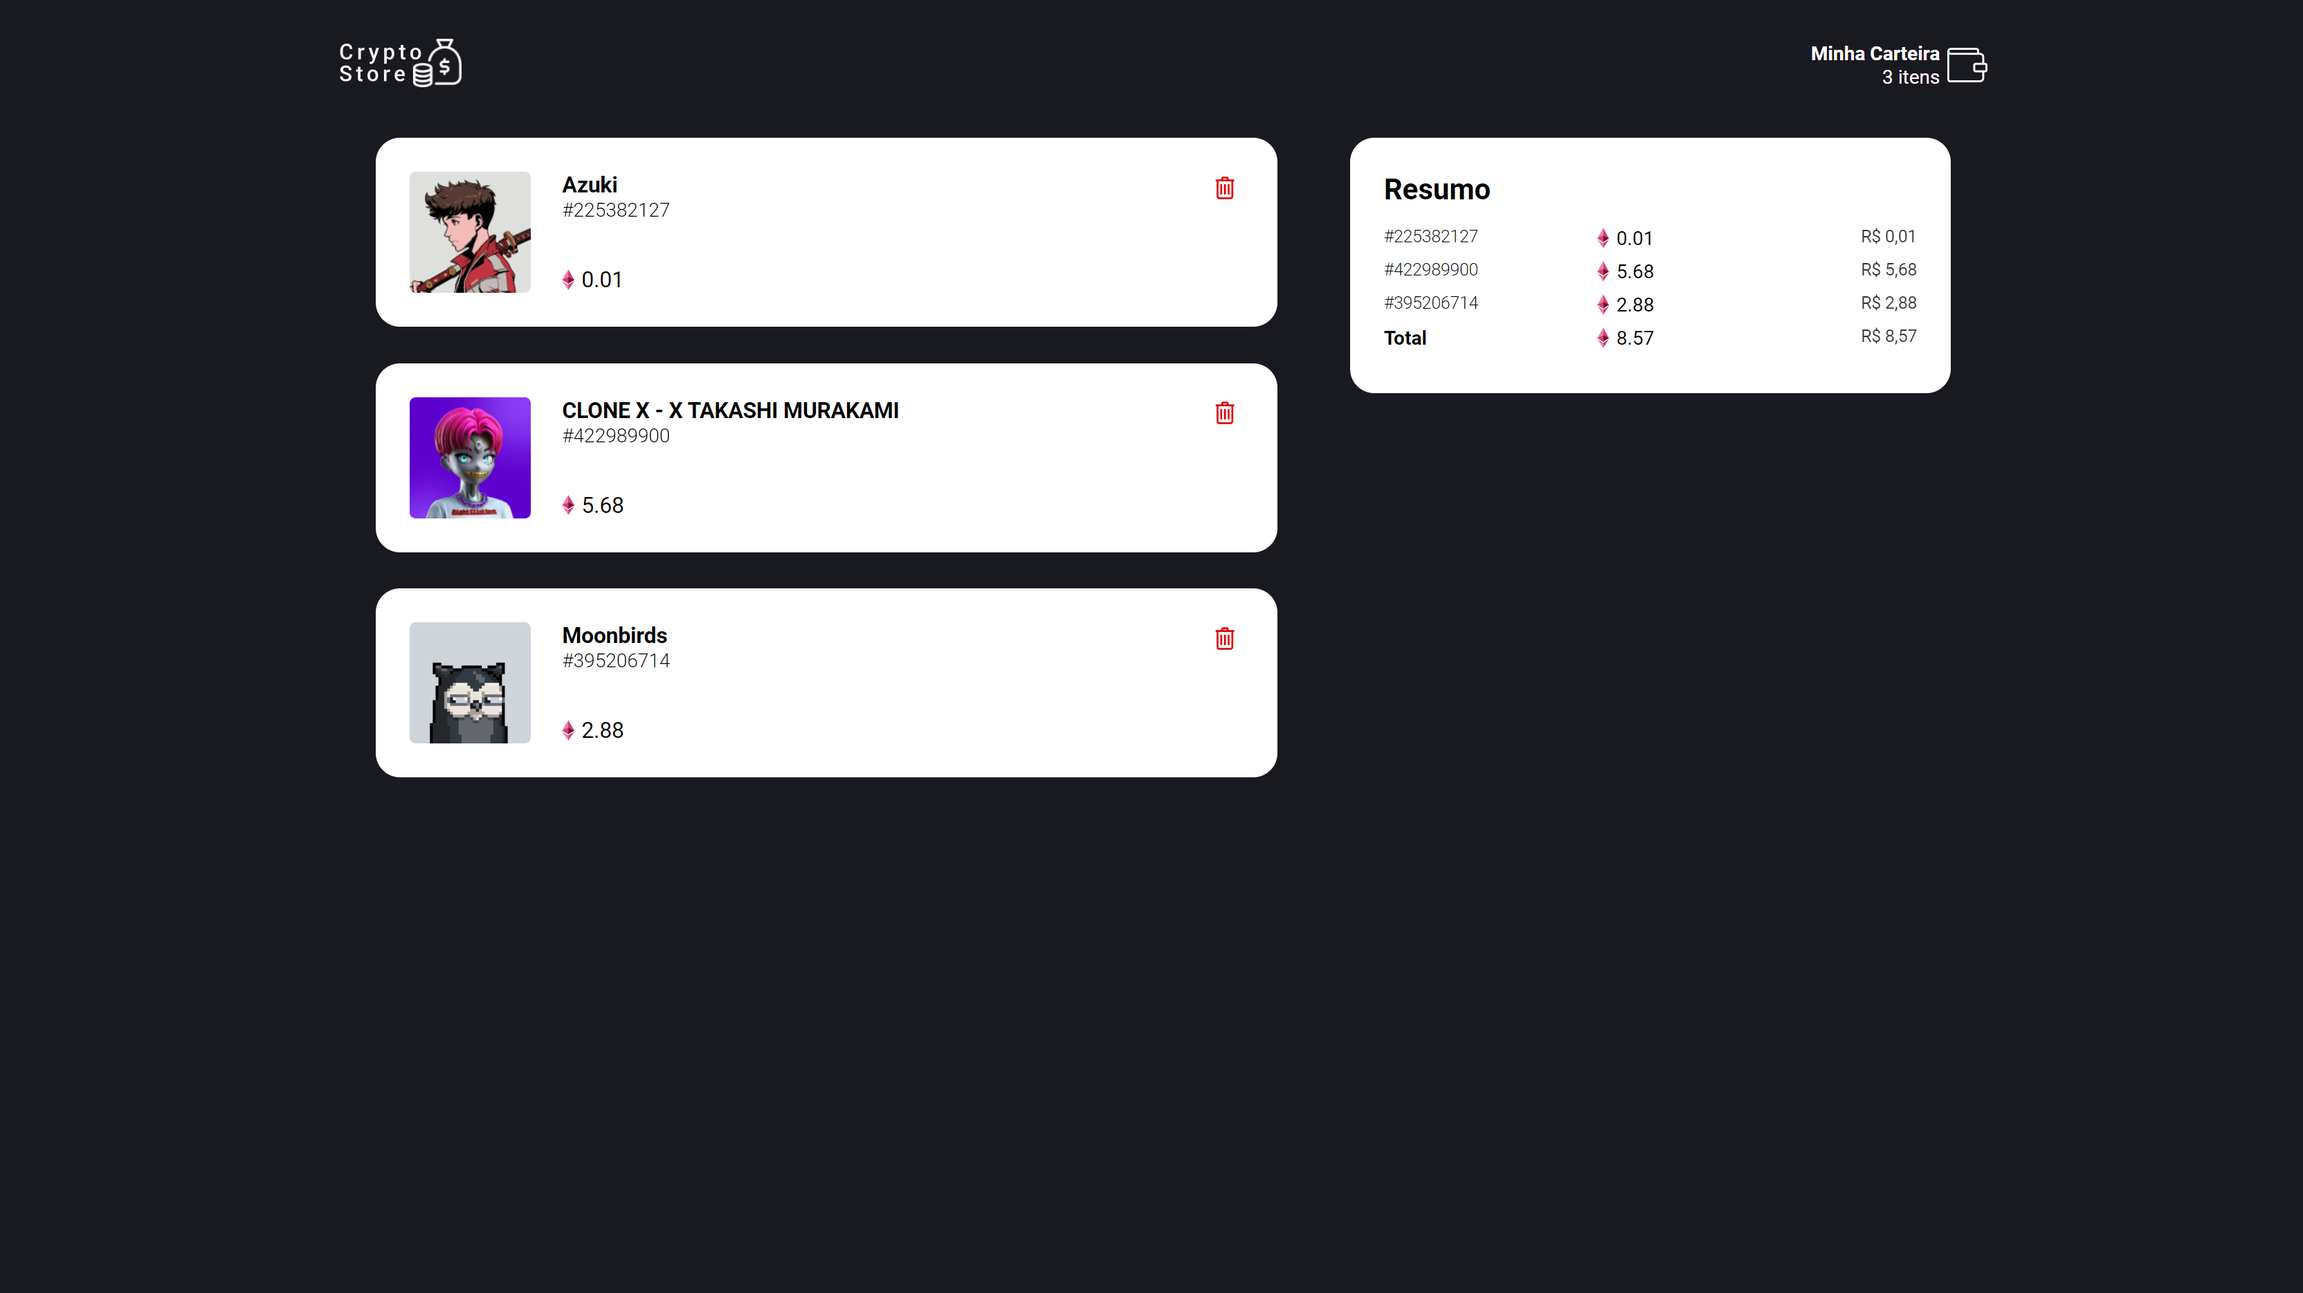
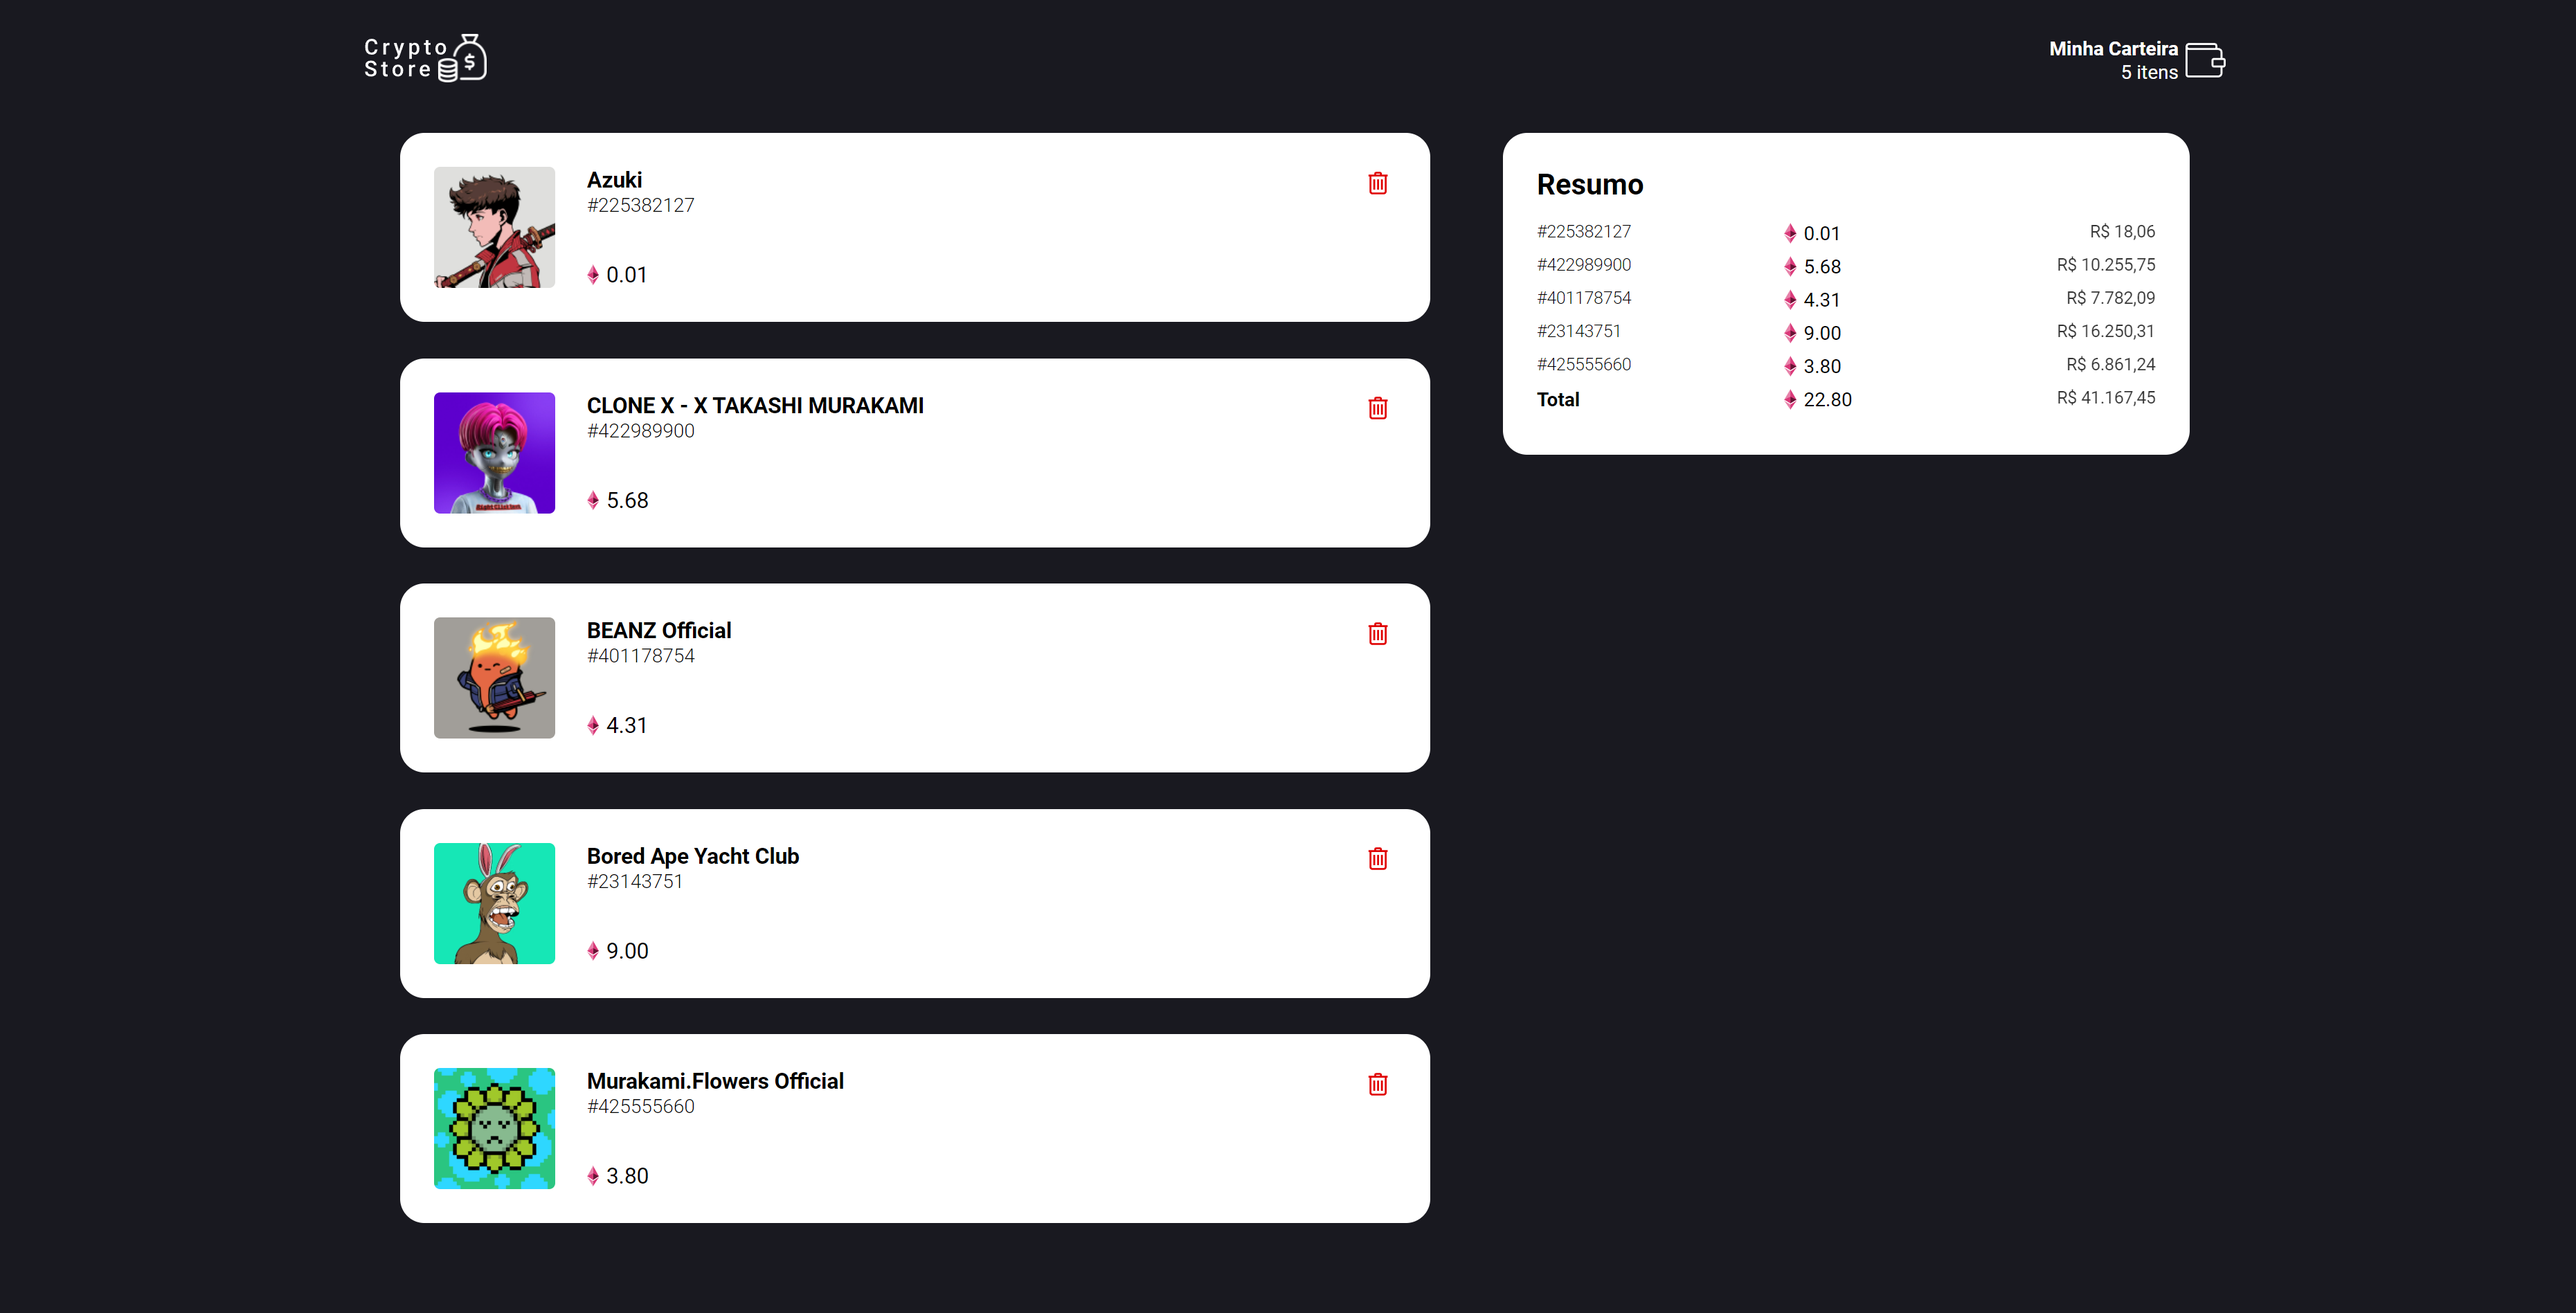
refactor: some adjusts

Changed region(s): [[0.1562, 0.0931, 0.875, 0.9315], [0.7812, 0.031, 0.875, 0.0621], [0.125, 0.031, 0.2188, 0.0621]]

diff --git a/src/contexts/wallet.context.tsx b/src/contexts/wallet.context.tsx
@@ -1,4 +1,4 @@
-import { createContext, useCallback, useMemo, useState } from 'react';
+import { createContext, useCallback, useEffect, useMemo, useState } from 'react';
 
 import { IFunctionalComponentProps } from '../types/interfaces';
 import { IProduct } from './products.context';
@@ -22,23 +22,34 @@ const WalletContext = createContext({
 const WalletProvider: React.FC<IFunctionalComponentProps> = ({ children }) => {
   const [products, setProducts] = useState<IProduct[]>([]);
 
+  useEffect(() => {
+    const storage = localStorage.getItem('wallet');
+    setProducts(storage ? JSON.parse(storage) : []);
+  }, []);
+
+  const setStorage = (list: IProduct[]) => localStorage.setItem('wallet', JSON.stringify(list));
+
   const addProduct = useCallback(
     (newProduct: IProduct) => {
-      setProducts([...products, newProduct]);
+      const newList = [...products, newProduct];
+      setProducts(newList);
+      setStorage(newList);
     },
     [products]
   );
 
   const removeProduct = useCallback(
     (productId: number) => {
-      setProducts(products.filter((product) => product.id !== productId));
+      const newList = products.filter((product) => product.id !== productId);
+      setProducts(newList);
+      setStorage(newList);
     },
     [products]
   );
 
   const value = useMemo(() => {
     const totalEther = products.reduce((previous, current) => (previous += current.price), 0);
-    const totalBRL = products.reduce((previous, current) => (previous += current.price), 0);
+    const totalBRL = products.reduce((previous, current) => (previous += current.brlPrice || 0), 0);
 
     return {
       totalEther,

diff --git a/src/pages/Showcase/index.tsx b/src/pages/Showcase/index.tsx
@@ -10,14 +10,14 @@ export const Showcase: React.FC = () => {
   const { addProduct } = useWallet();
 
   const productsList = useMemo(() => {
-    return data?.map(({ collection, id, image, price, isSold }) => (
+    return data?.map(({ collection, id, image, price, isSold, brlPrice }) => (
       <Card
         key={id.toString()}
         hashCode={id}
         image={image.url}
         price={price}
         name={collection.name}
-        addProduct={() => addProduct({ collection, id, image, price })}
+        addProduct={() => addProduct({ collection, id, image, price, brlPrice })}
         isSold={isSold}
       />
     ));

diff --git a/src/pages/Wallet/index.tsx b/src/pages/Wallet/index.tsx
@@ -23,8 +23,13 @@ export const Wallet: React.FC = () => {
 
   const resumeItemList = useMemo(() => {
     return products
-      .map(({ collection, id, price }) => (
-        <ResumeItem key={collection.name} hashCode={id} priceEther={price} priceBRL={price} />
+      .map(({ collection, id, price, brlPrice }) => (
+        <ResumeItem
+          key={collection.name}
+          hashCode={id}
+          priceEther={price}
+          priceBRL={brlPrice || 0}
+        />
       ))
       .concat(
         <ResumeItem key="total_value" priceEther={totalEther} priceBRL={totalBRL} isTotalValue />

diff --git a/src/hooks/useProducts.hook.ts b/src/hooks/useProducts.hook.ts
@@ -1,5 +1,6 @@
 import { useContext, useMemo } from 'react';
 
+import { ETHER_PRICE } from '../constants/currency';
 import { IProduct, ProductsContext } from '../contexts/products.context';
 import useWallet from './useWallet.hook';
 
@@ -16,6 +17,7 @@ const useProducts = (): IUseProducts => {
     () =>
       nfts?.map((product) => {
         product.isSold = !!products.some(({ id }) => id === product.id);
+        product.brlPrice = product.price * ETHER_PRICE;
         return product;
       }),
     [nfts, products]

diff --git a/src/utils/http.ts b/src/utils/http.ts
@@ -1,7 +1,9 @@
 import axios from 'axios';
 
+import { BASE_URL } from '../constants/urls';
+
 const clientHTTP = axios.create({
-  baseURL: 'http://localhost:4000',
+  baseURL: BASE_URL,
 });
 
 export const fetcher = async (url: string): Promise<any> => {

diff --git a/src/constants/themes.ts b/src/constants/themes.ts
@@ -1,4 +1,4 @@
-const themes = {
+const THEMES = {
   default: {
     colors: {
       primary: '#191920',
@@ -9,4 +9,4 @@ const themes = {
   },
 };
 
-export default themes;
+export default THEMES;

diff --git a/src/contexts/products.context.tsx b/src/contexts/products.context.tsx
@@ -15,6 +15,7 @@ export interface IProduct {
   collection: {
     name: string;
   };
+  brlPrice?: number;
   isSold?: boolean;
 }
 

diff --git a/src/constants/urls.ts b/src/constants/urls.ts
@@ -1,1 +1,2 @@
 export const NFT_URL = 'nfts';
+export const BASE_URL = 'http://localhost:4000';

diff --git a/src/constants/currency.ts b/src/constants/currency.ts
@@ -1,0 +1,1 @@
+export const ETHER_PRICE = 1805.59;

diff --git a/README.md b/README.md
@@ -16,16 +16,18 @@ A ideia do aplicativo é referente a um desafio proposto a mim, com o seguinte c
 
 _"O objetivo desse desafio é criar uma pequena lojinha de NFTs onde teremos uma listagem dos NFTs disponíveis para compra e a possibilidade de adicioná-los a uma carteira."_
 
+Mais detalhes [aqui](https://github.com/emilioheinz/technical-test)
+
 ## Funcionalidades
 
 - Vitrine:
 
   - Listagem dos NFT's para compra.
-  - Possibilidade de comprar uma única vez cada um dos NFT's.
+  - Possibilidade de comprar NFT's.
 
 - Carteira:
 
-  - Listagem os NFT's comprados.
+  - Listagem dos NFT's comprados.
   - Resumo com valores em Ether e BRL de todos os NFT's adquiridos.
   - Possibilidade de remover NFT's da carteira.
 
